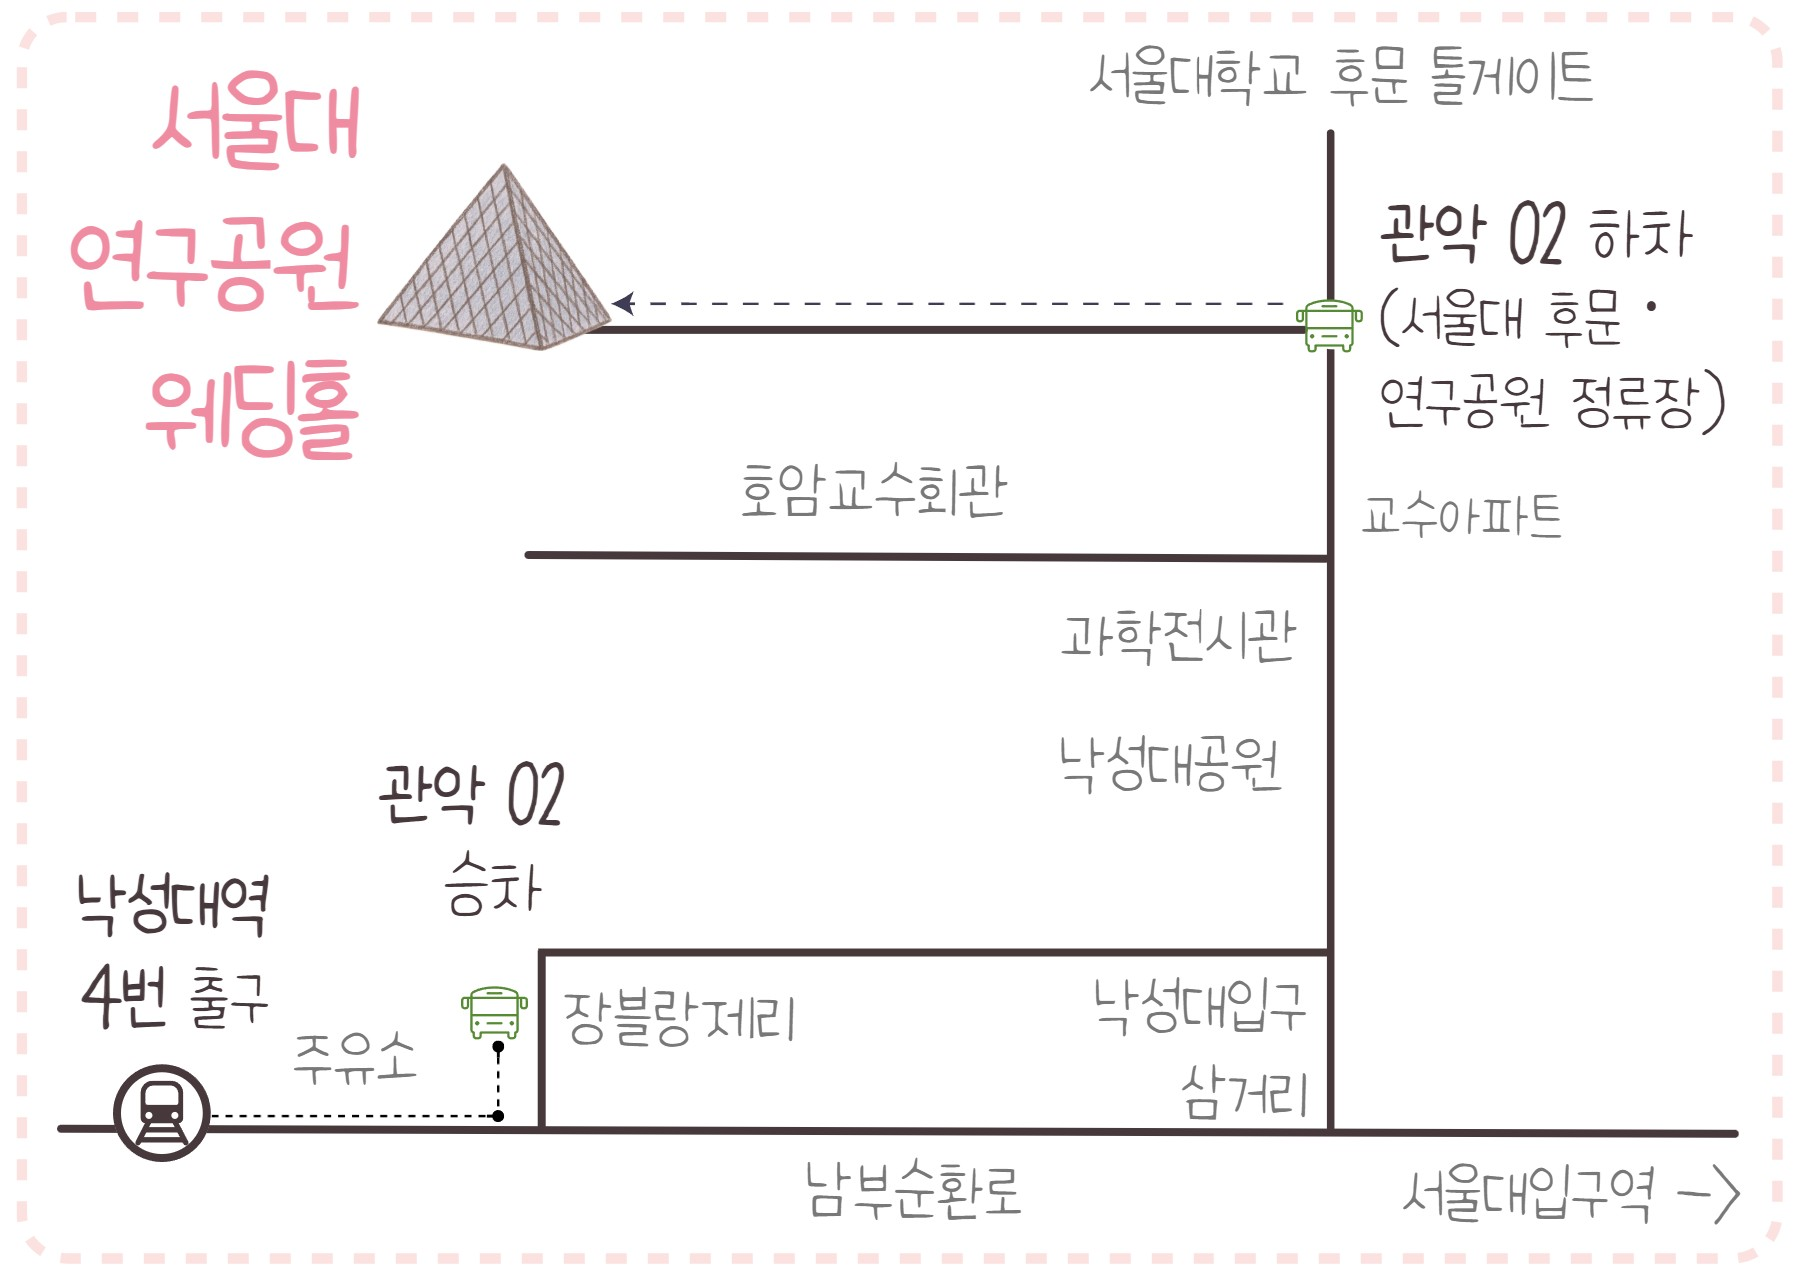
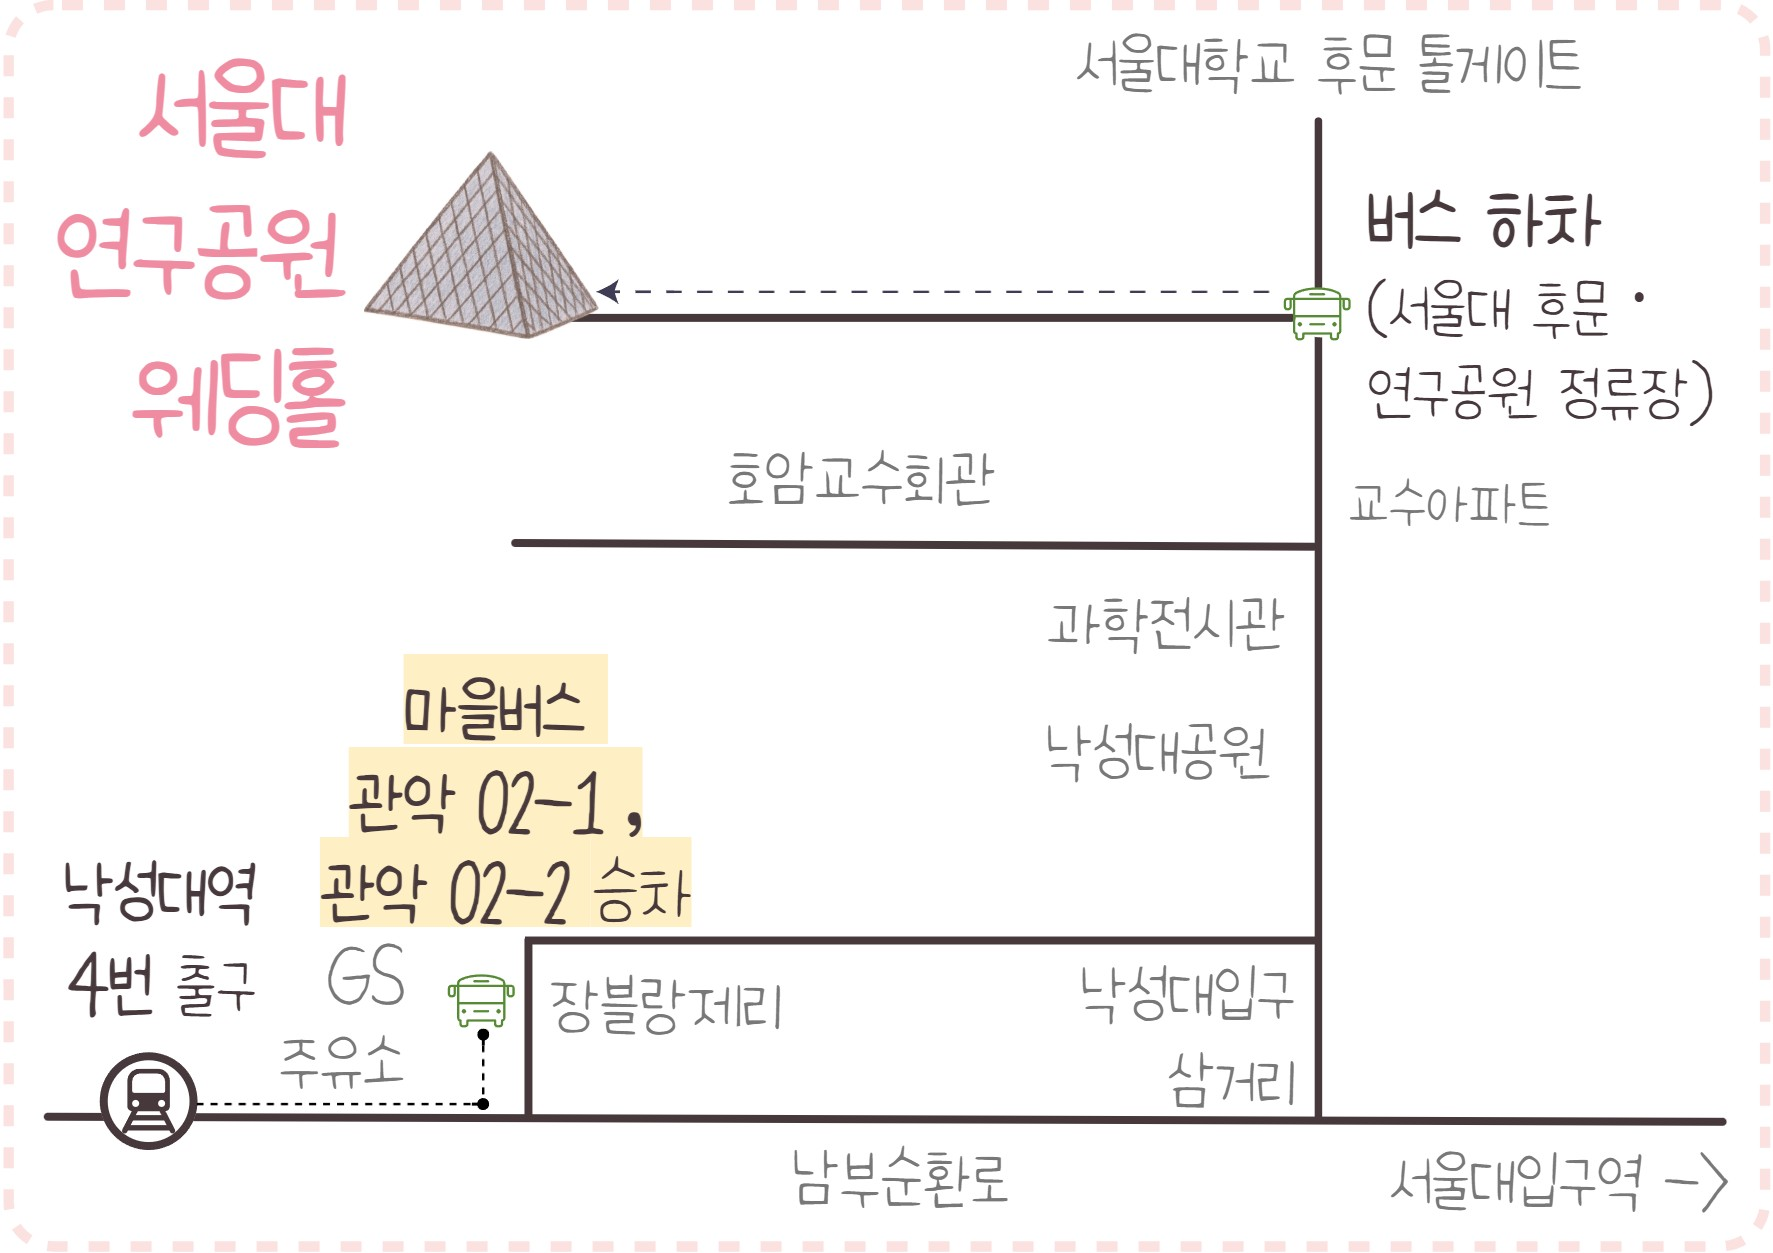
bus_info_update

Changed region(s): [[0.0, 0.0, 1.0, 1.0], [0.062, 0.2801, 0.2171, 0.3735], [0.3102, 0.4046, 0.3723, 0.4669]]

diff --git a/index.html b/index.html
@@ -181,8 +181,8 @@
       </div>
         <p>
         → <strong>2호선 낙성대역</strong> 4번 출구<br> 
-        → 첫 번째 골목 좌회전 <br> 
-        → GS 주유소 옆 마을버스 <strong>관악 02</strong> 승차 <br>  
+        → 첫 번째 골목 좌회전 GS주유소 옆 주유소<br> 
+        → 마을버스 <strong>관악 02-1 혹은 02-2</strong> 승차 <br>  
         → <strong>"서울대 후문 · 연구공원"</strong> 하차<br>
         → 길 건너 샛길 연구공원 방향 도보 100m <br>
         → 검은색 유리 건물
